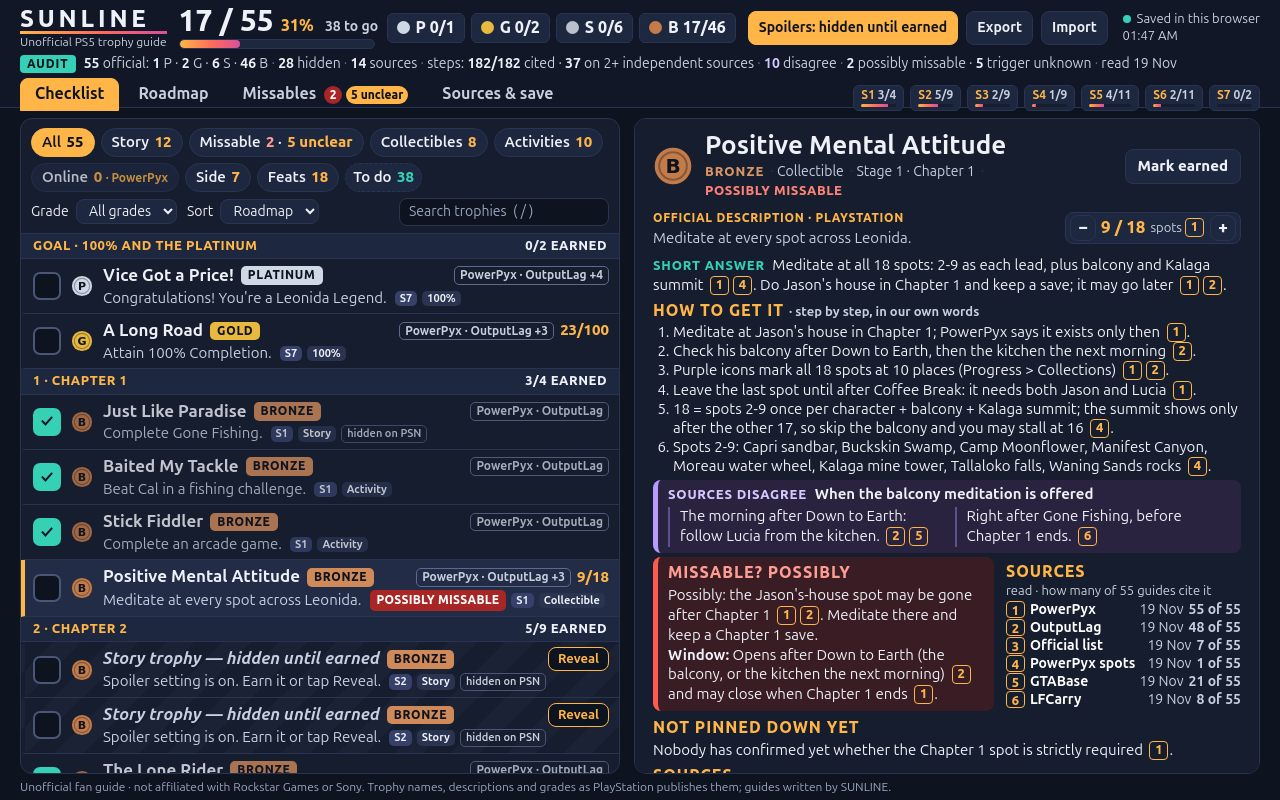
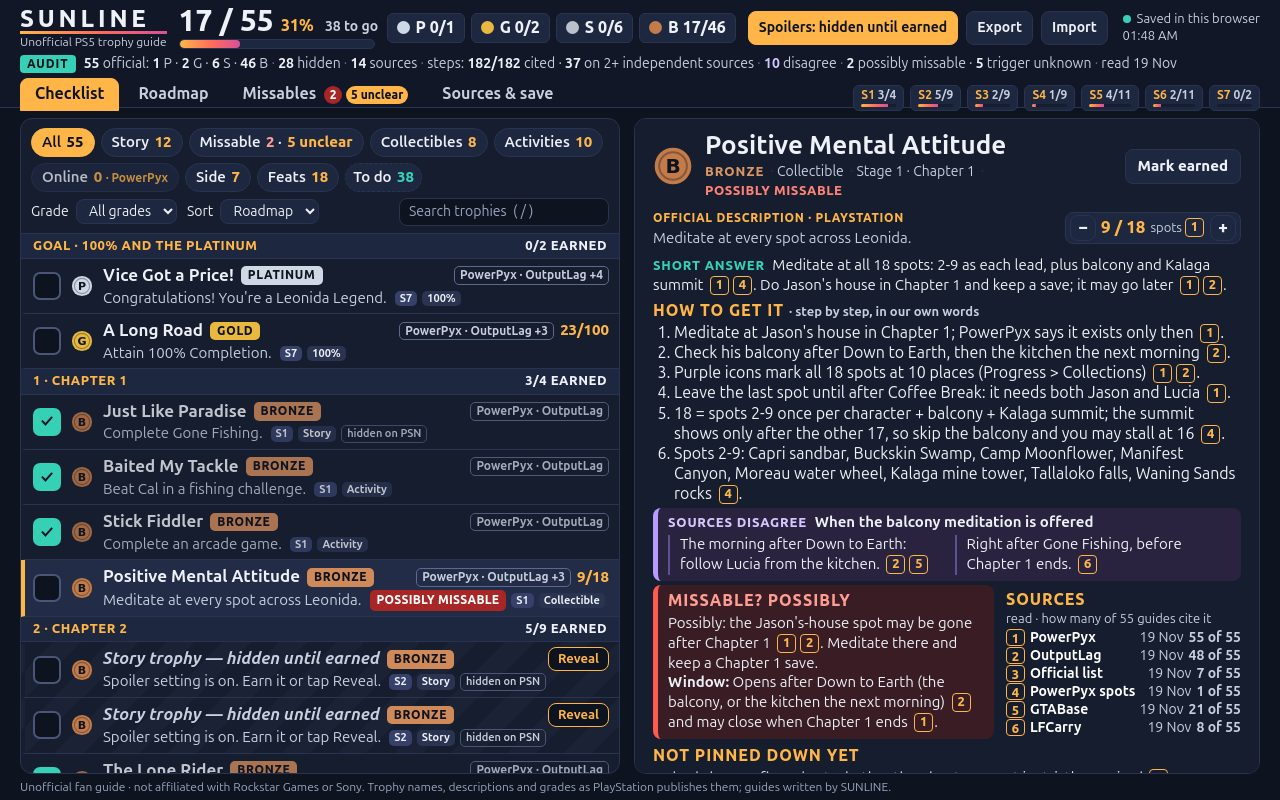
SUNLINE G8 1b: numbered steps one size larger (15 -> 16 px, line height 1.26) in the room 1a freed; the short answer stays at 15 px because at 16 px it wraps to a third line holding only its last cite (tried and reverted). On shot 1 the window line's last cite and the last source row (LFCarry) stay 

Changed region(s): [[0.5, 0.4062, 0.9688, 0.9688]]

diff --git a/app/css/sunline.css b/app/css/sunline.css
@@ -482,9 +482,9 @@ body[data-route="roadmap"] .view, body[data-route="missables"] .view { grid-temp
   color: var(--teal);
 }
 
-.steps { margin: 0; padding-left: 20px; font-size: 15px; }
+.steps { margin: 0; padding-left: 21px; font-size: 16px; }
 
-.steps li { margin: 0; line-height: 1.28; }
+.steps li { margin: 0; line-height: 1.26; }
 
 .answer + .howto h3 { margin-top: 4px; }
 
